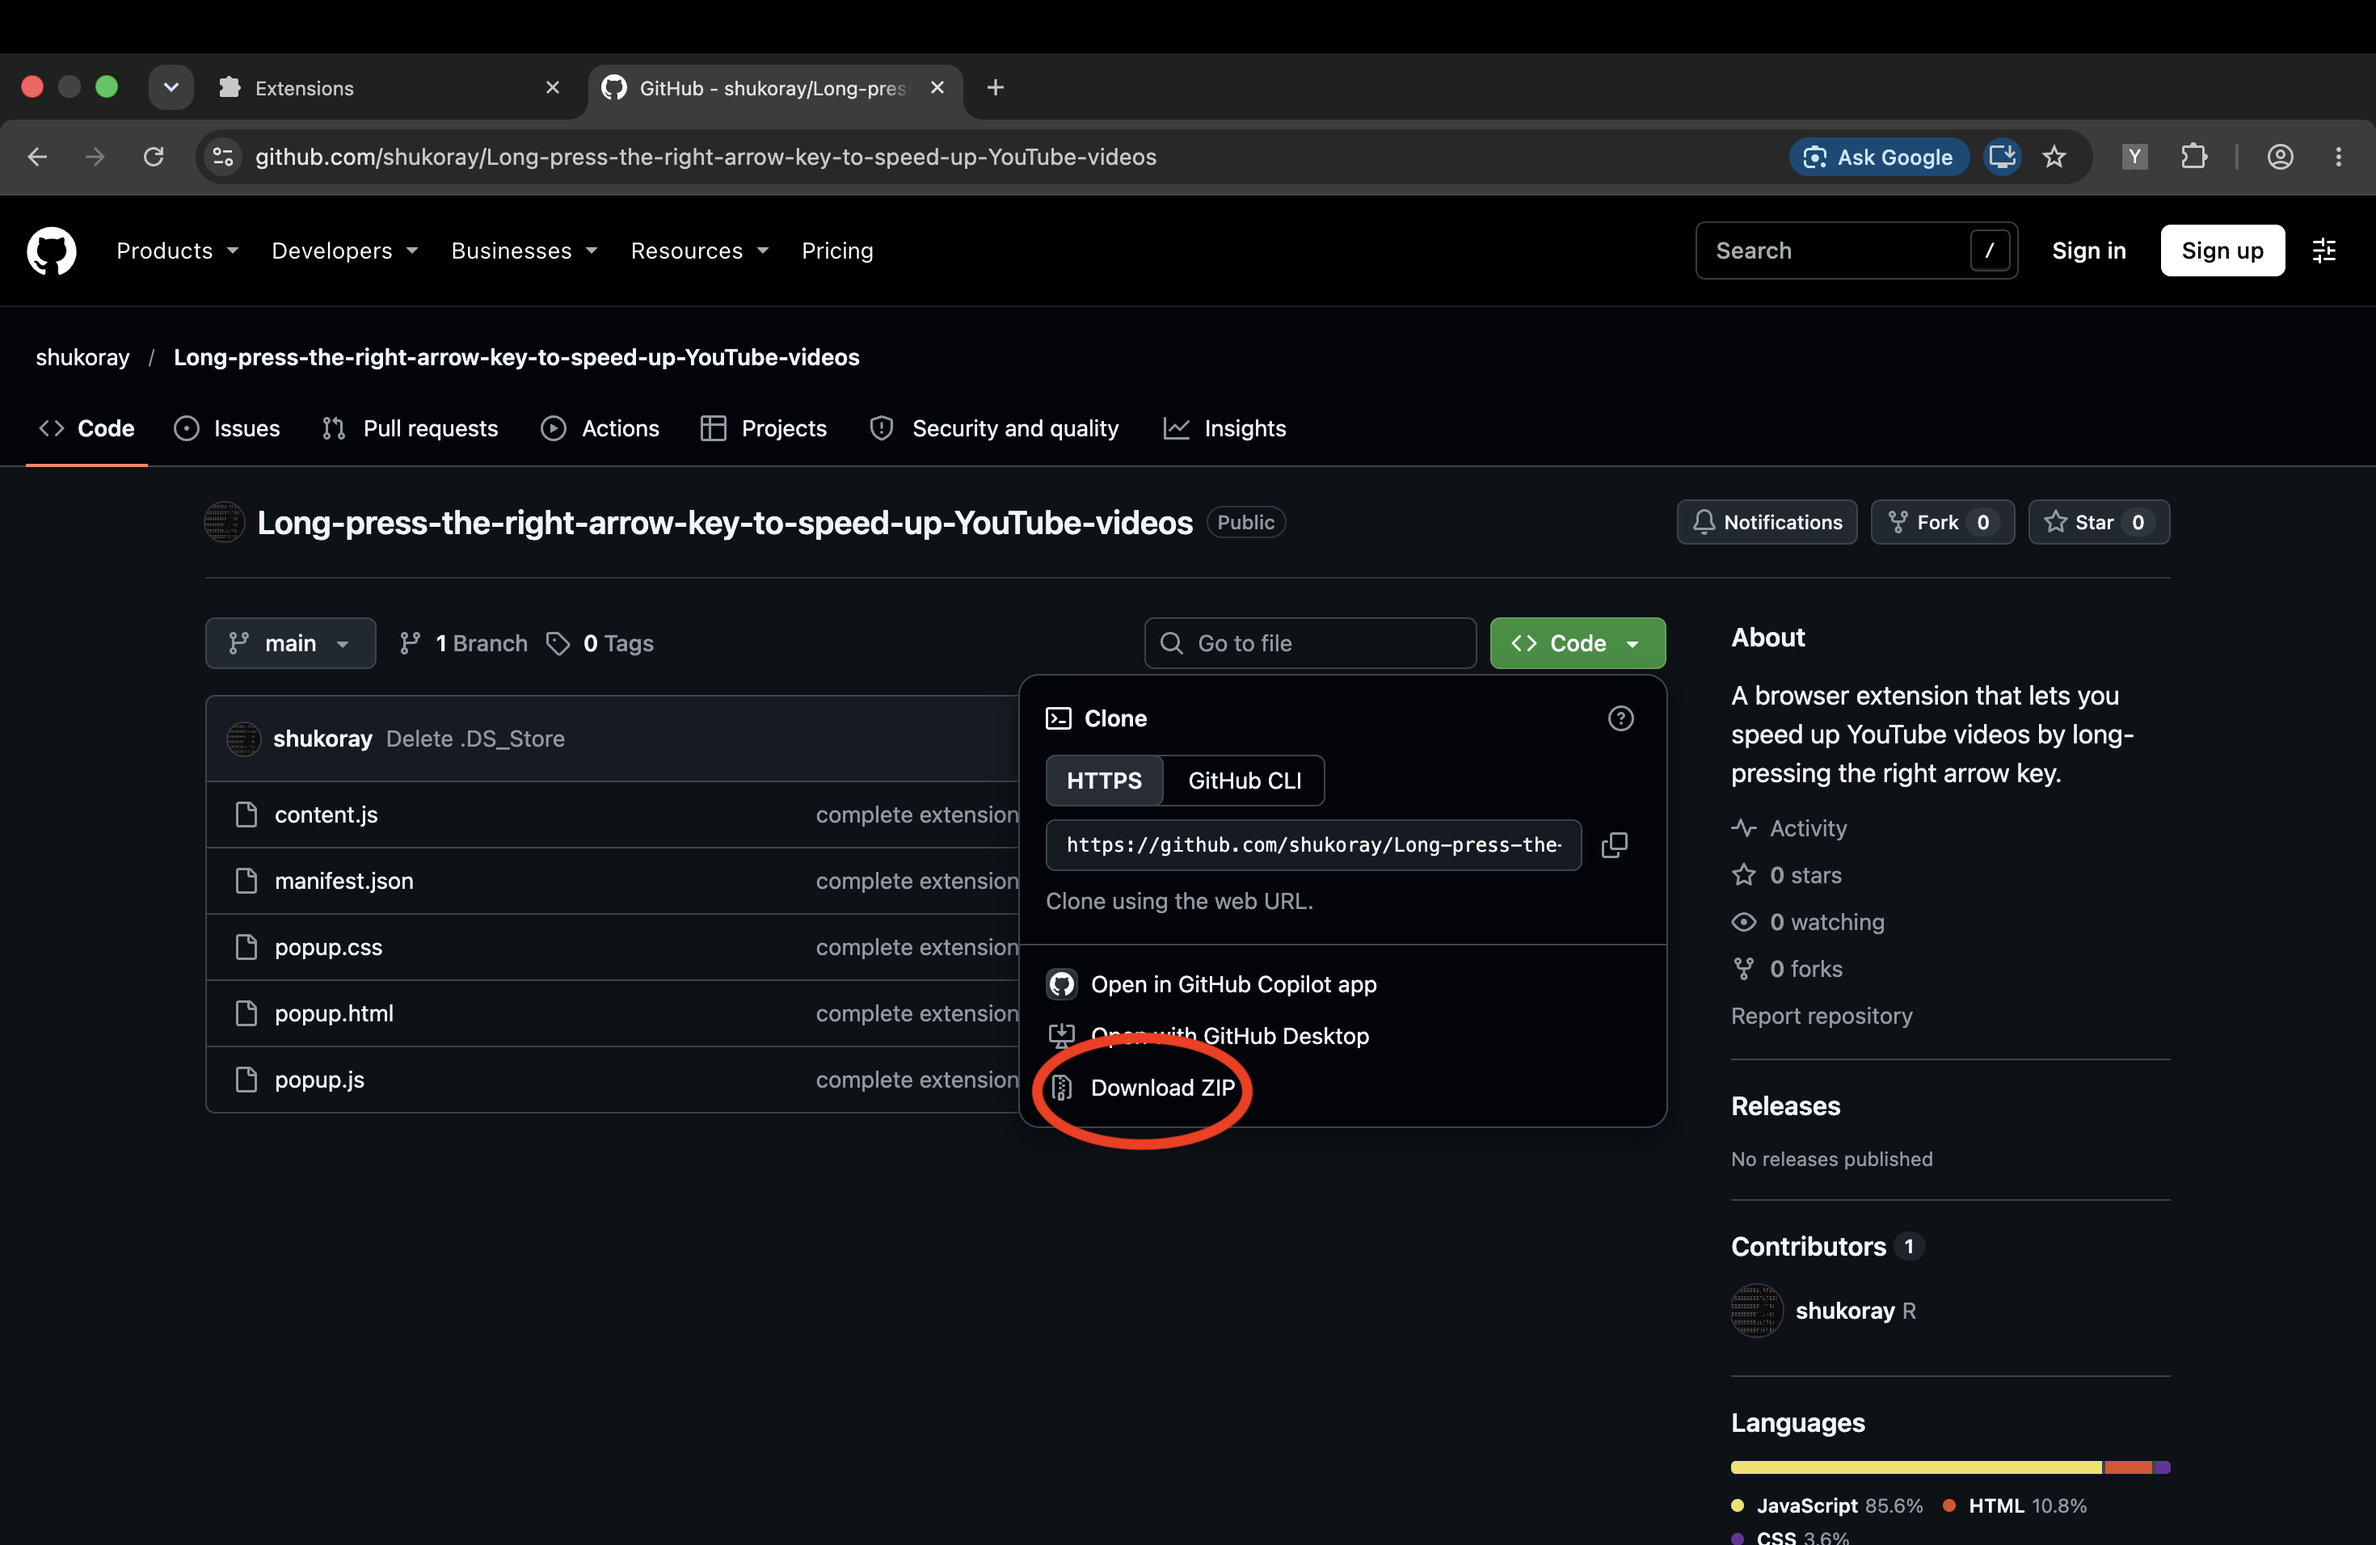
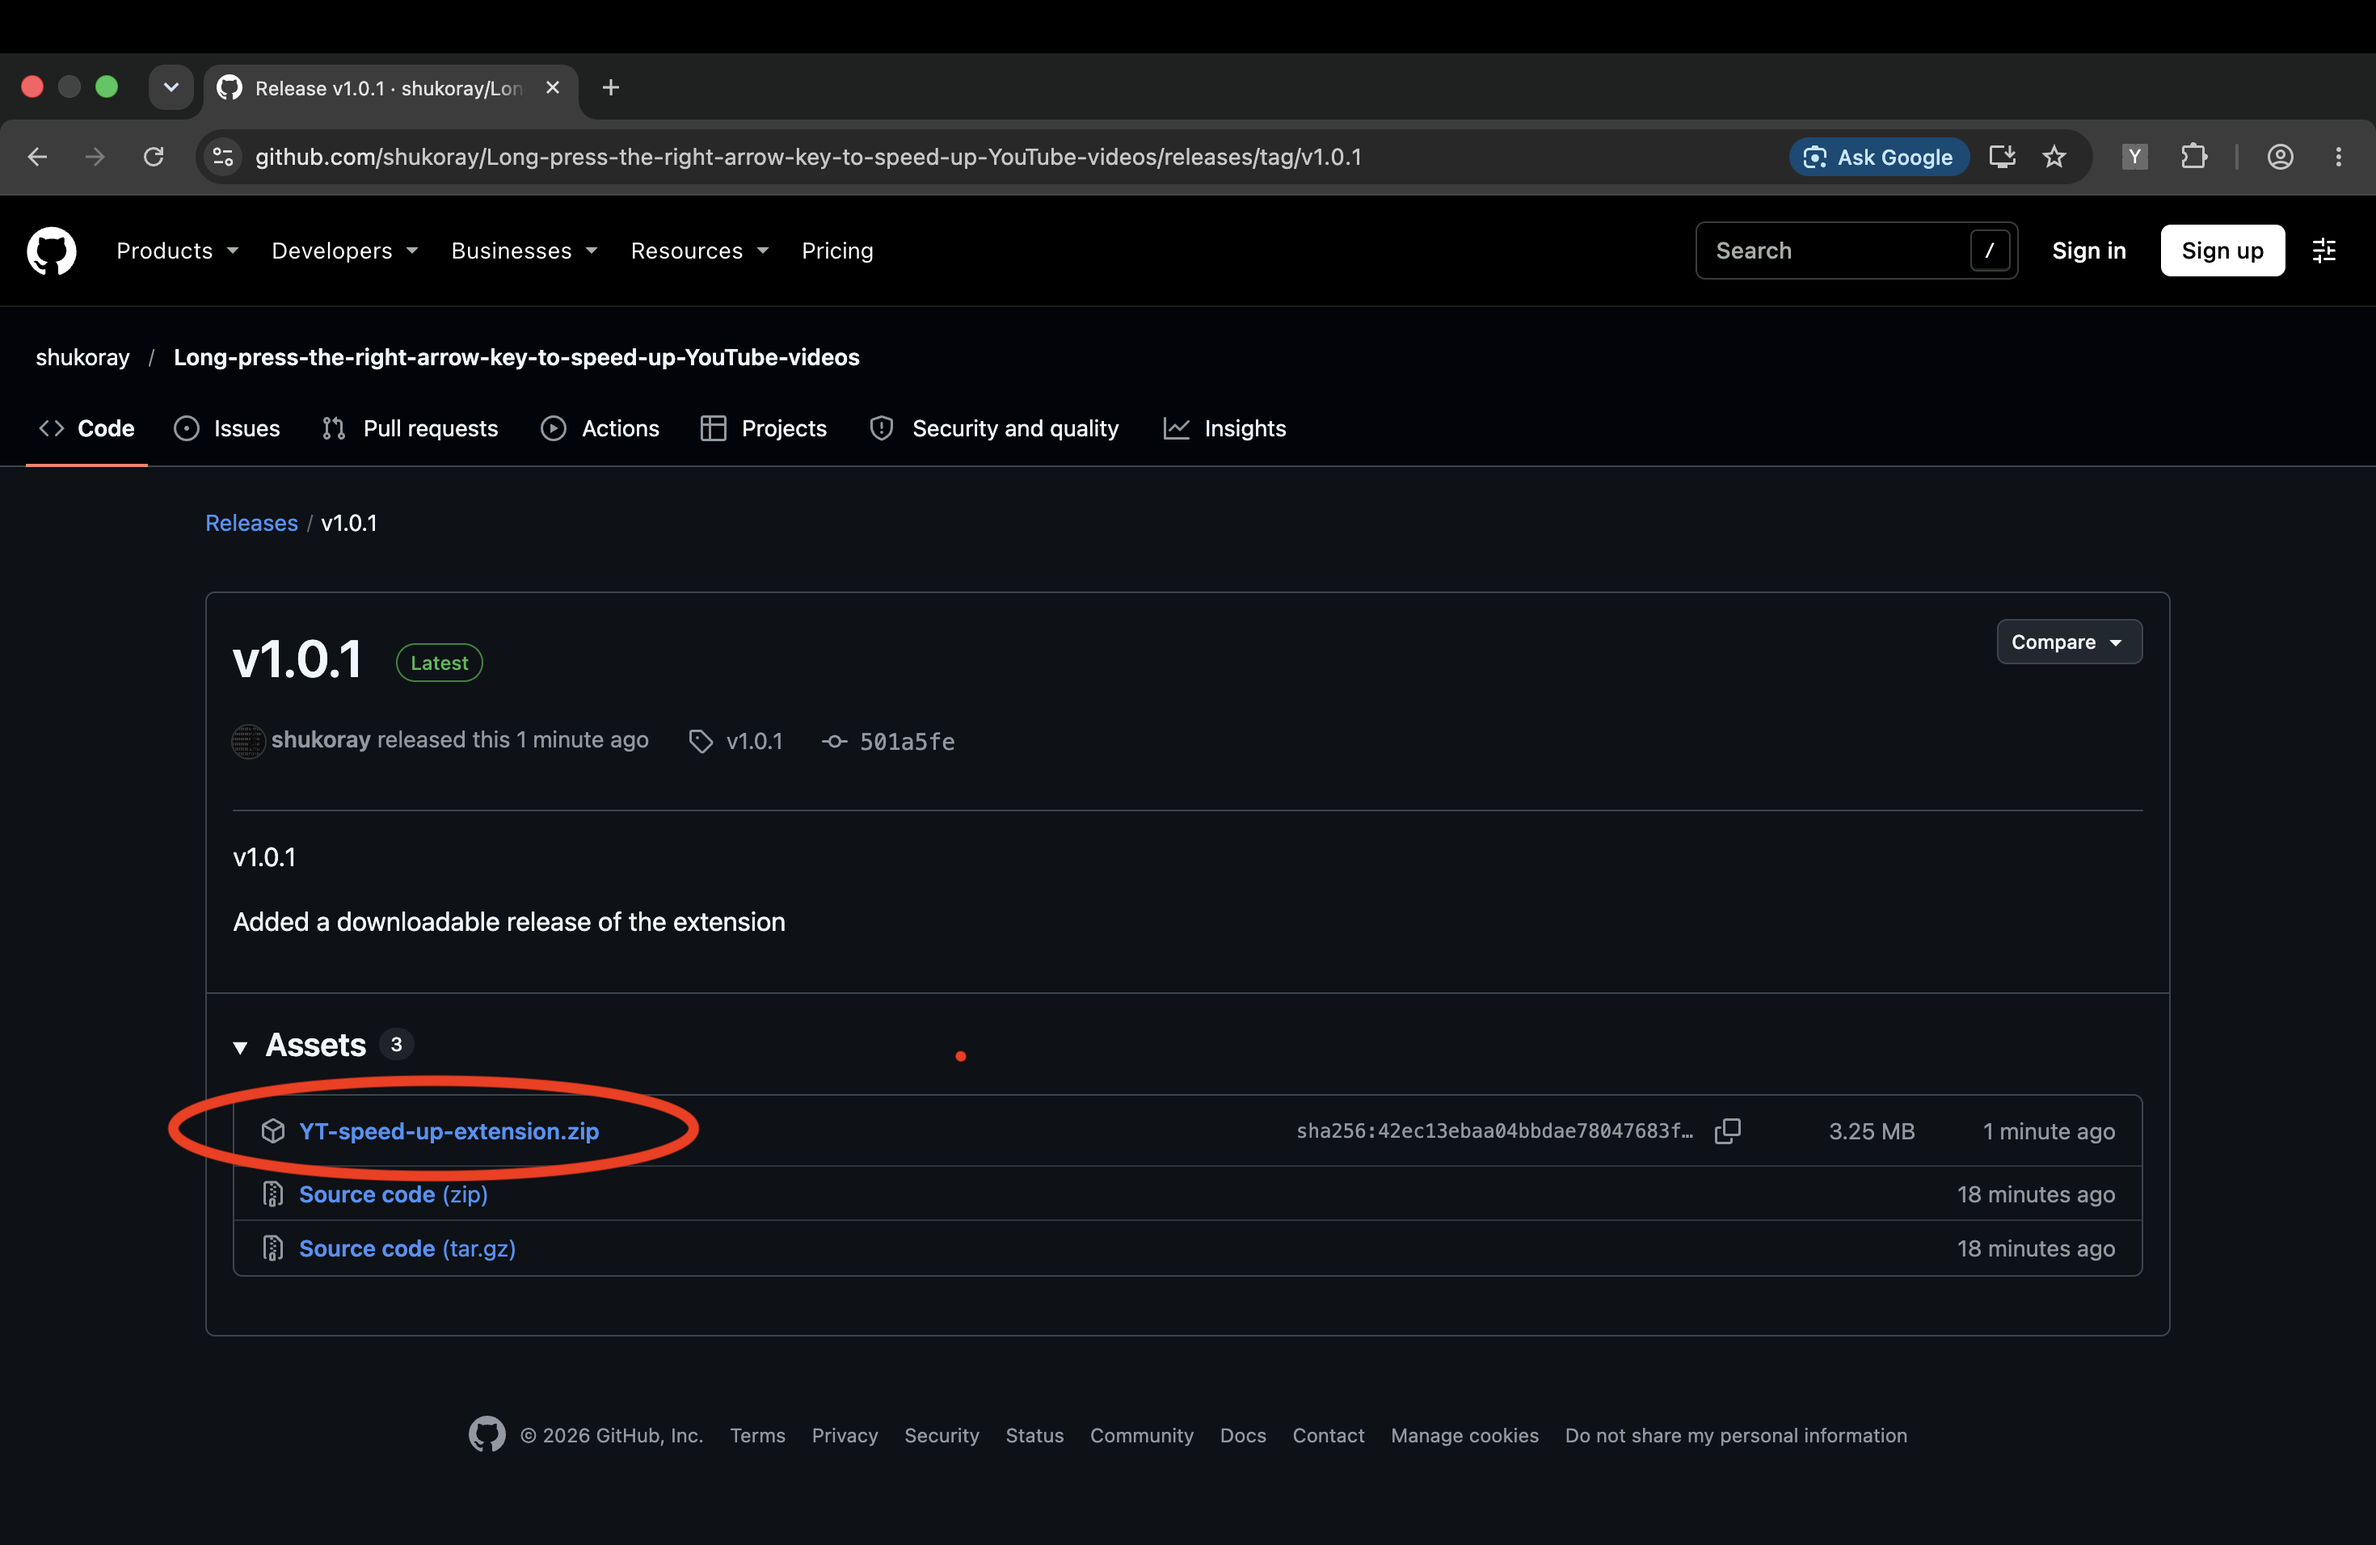
fix README.md

diff --git a/README.md b/README.md
@@ -8,7 +8,8 @@
 ![](assets/06.png)
 
 ## How to use
-1. Download the extension
+1. Download the extension. Go to Release ➔ click YT-speed-up-extension(.zip) to download
+![](assets/00.png)
 ![](assets/01.png)
 2. Go to Customize and control Google Chrome ➔ Extensions ➔ Manage extensions
 ![](assets/02.png)
